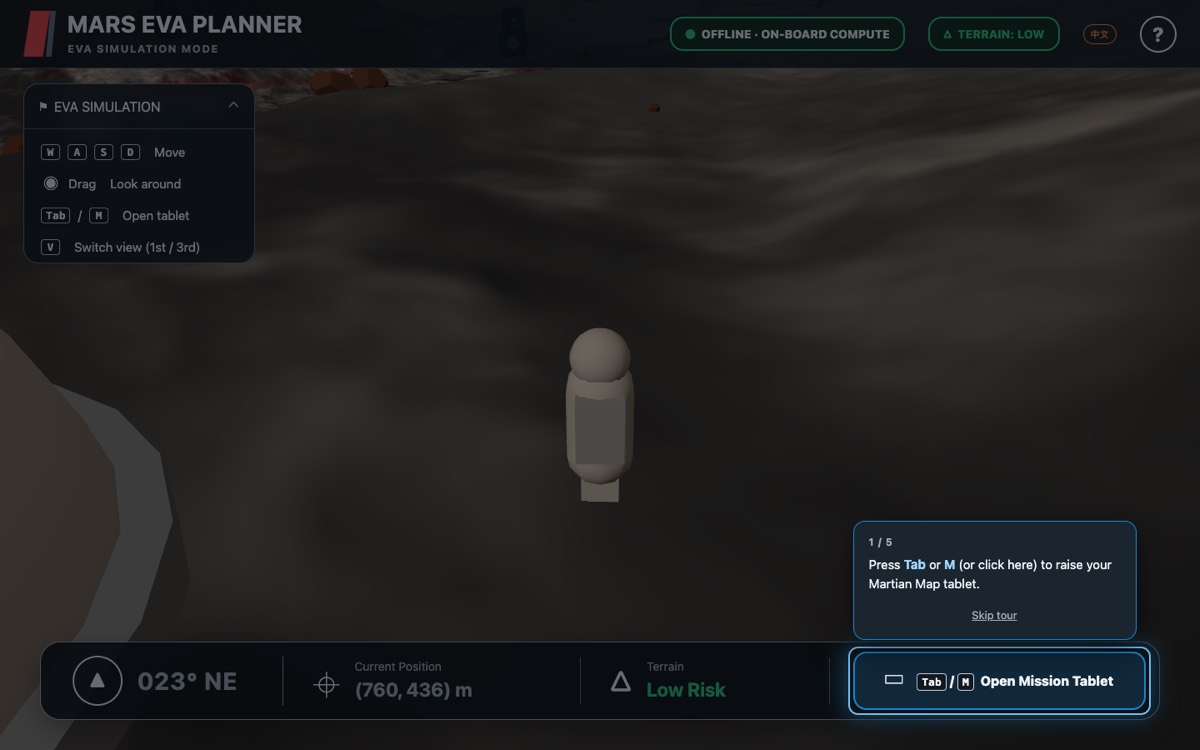
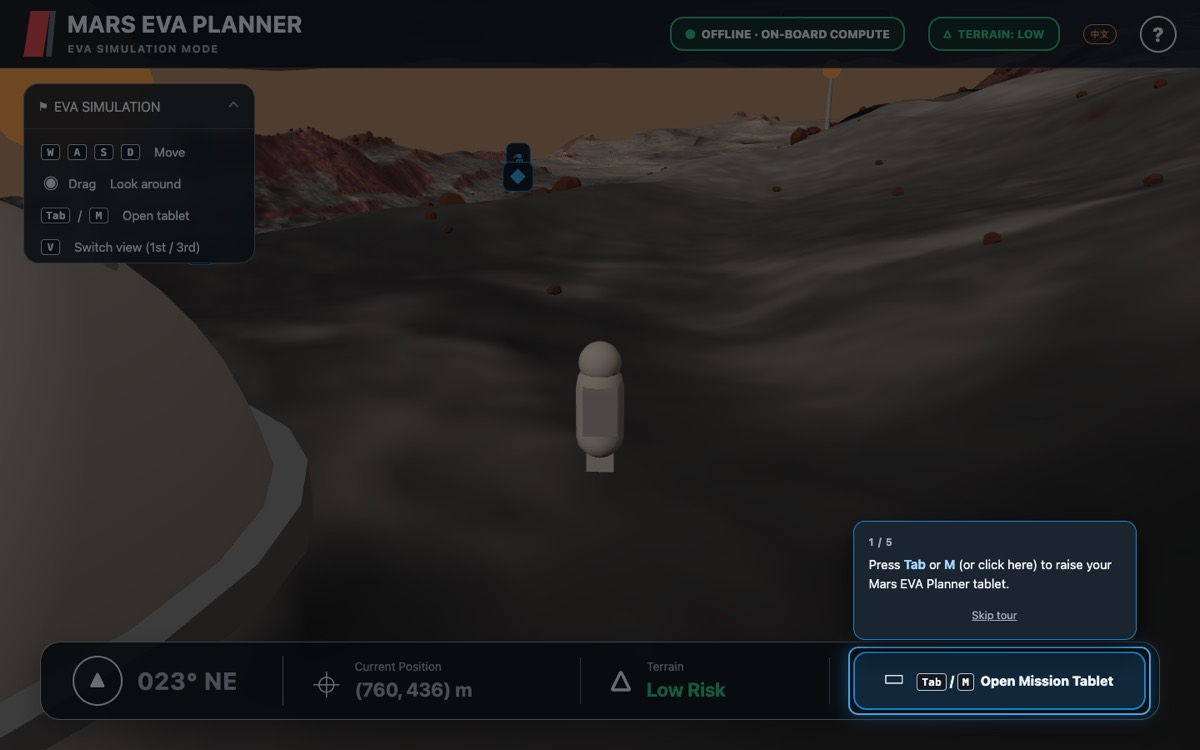
README: complete and accurate (data sources, second site, URL options, controls, requirements, structure, screenshots, credits)

diff --git a/README.md b/README.md
@@ -1,70 +1,161 @@
-<!-- SI-assisted: first drafted by Hermes Agent (SI tool), rewritten by Claude Code (Anthropic, SI tool) from the project's facts; reviewed by the team. -->
-# Mars EVA Planner — offline route planner for Mars walks
+<!-- SI-assisted: first drafted by Hermes Agent (SI tool), rewritten by Claude Code (Anthropic, SI tool) from the project's code and data; reviewed by the team. -->
+# Mars EVA Planner
 
-**Team It Worked on Earth!!!** (YI-FAN YU, PO-TING HSU) · NASA Space Apps Challenge 2026 · Challenge: *Interplanetary Survival Guide: Martian Map*
+An offline navigation tablet for astronauts walking on Mars. It plans safe routes on real NASA terrain, tracks the point of no return, and re-plans on the device when something goes wrong.
 
 **Live demo (runs in the browser, no install):** https://bobhsu408.github.io/martian-map/
 
-Mars EVA Planner is an offline navigation tablet for an astronaut walking on Mars. It turns NASA terrain data from Mount Sharp in Gale crater into safe walking routes. For each walk it shows three choices (safe, balanced, science) with distance, time, risk and an estimated radiation dose. During the walk it tracks the **point of no return**, the moment after which the oxygen left is not enough to get home. If a rockfall blocks the path or the suit starts leaking oxygen, it re-plans on the spot or orders a return to base. It finds the astronaut's position from radio beacons instead of GPS. A message to Earth takes 4 to 24 minutes, so every calculation runs on the device.
+NASA Space Apps Challenge 2026 · Challenge: *Interplanetary Survival Guide: Martian Map* · Team **It Worked on Earth!!!** (YI-FAN YU, PO-TING HSU)
 
-A first-time spotlight tour walks new users through raising the tablet, picking a destination and planning routes.
+![The tablet during an EVA: oxygen, turn-back countdown, position error and the route on the HiRISE map](docs/devlog/06_eva_tablet.jpg)
 
-## How to try it
+## Contents
 
-1. Open the demo and press **Start**. The tour guides you through it.
-2. Press **Tab** or **M** to raise the tablet, pick a science stop, and press **Calculate routes**.
-3. Press **▶ Start EVA**, then try the emergencies: **Rockfall**, **O₂ leak**, **Drift off route**, **Lose base link**.
-4. Walk yourself with **W A S D**, drag to look around, and press **V** to switch first or third person. The **Map Layers** button shows slope, hazards, cost, beacon coverage and the point of no return.
+- [Why](#why)
+- [Screenshots](#screenshots)
+- [How to use it](#how-to-use-it)
+- [Features](#features)
+- [How it works](#how-it-works)
+- [Run it locally](#run-it-locally)
+- [Project structure](#project-structure)
+- [Data](#data)
+- [Testing](#testing)
+- [Limitations](#limitations)
+- [Use of SI (AI) tools](#use-of-si-ai-tools)
+- [Team and credits](#team-and-credits)
+
+## Why
+
+On a Mars walk, the questions are local and urgent: is the next stretch of ground safe, and is there enough oxygen to get back? A message to Earth takes 4 to 24 minutes, and there is no GPS. Mars EVA Planner answers these questions on the astronaut's own device, using a HiRISE terrain model of Mount Sharp in Gale crater.
+
+## Screenshots
+
+| | |
+|---|---|
+| ![Spotlight tour, first step](docs/devlog/01_tour_raise.jpg) | ![Three routes ready](docs/devlog/03_tour_ready.jpg) |
+| First-time tour: raise the tablet | Three routes compared, ready to go |
+| ![Rockfall re-plan](docs/devlog/07_rockfall.jpg) | ![Oxygen leak, heading home](docs/devlog/08_o2_return.jpg) |
+| Rockfall: new route in under a second | Oxygen leak: the tablet sends you home |
+| ![Walking in 3D](docs/devlog/05_walk_3d.jpg) | ![Mars globe](docs/devlog/09_globe.jpg) |
+| Walking the route on HiRISE terrain | Zoom out to the whole planet |
+
+## How to use it
+
+1. Open the demo and press **Start**. A spotlight tour guides your first plan.
+2. Raise the tablet (**Tab** or **M**), pick a science stop or a custom point, and press **Calculate routes**.
+3. Choose Safe, Balanced or Science, then press **▶ Start EVA**. Walk it yourself or turn on **Autopilot**.
+4. Try the emergencies on the tablet: **Rockfall**, **O₂ leak**, **Drift off route**, **Lose base link**.
+
+| Control | Action |
+|---|---|
+| W A S D or arrow keys | Walk and turn |
+| Drag | Look around |
+| Tab or M | Raise or lower the tablet |
+| Esc | Lower the tablet |
+| V | First or third person |
+| B | Drop a UWB beacon (during an EVA, up to 4) |
+| Mouse wheel / double-click on the tablet map | Zoom / reset the map |
+| ? (top right) | Show the intro and replay the tour |
+
+URL options: `?nointro` skips the intro and tour, `?site=nw` loads the second HiRISE site, `?synthetic` uses a generated test terrain, `?server` uses the optional local Rust server, and `?viewer` uses the plain JavaScript DEM viewer without the WebAssembly engine.
 
 ## Features
 
-- Penalty-based cost map (slope, roughness, buffer around hazards, science bonus) and A* route planning in three modes
-- Point of no return from the remaining suit oxygen, shown as a countdown and as a red boundary on the map
-- On-board re-planning after a rockfall, a drift off the route, or an oxygen leak (return to base)
-- Positioning without GPS: LoRa/UWB beacon ranging, line of sight on the terrain, Gauss–Newton multilateration, dead reckoning; after losing the base link the astronaut can drop new beacons (key **B**)
-- Walkable 3D Mars scene with a handheld tablet, minimap, haptic and audio guidance
-- Nested map scales: 2 m HiRISE site → Gale crater region → whole Mars globe and 2D map
-- English / 中文 interface toggle
+- Three routes per walk (safe, balanced, science) with distance, time, risk, steepest slope, closest hazard and an estimated radiation dose
+- Point of no return from the remaining oxygen: a "turn back in" countdown on the tablet and a red boundary on the ground
+- On-board re-planning after a rockfall, a drift off the route or an oxygen leak (return to base)
+- Positioning without GPS: LoRa and UWB beacon ranging with line of sight over the terrain, multilateration, and dead reckoning; after losing the base link you can drop your own beacons
+- Walkable 3D scene with a handheld tablet, minimap, and vibration and sound cues for steering
+- Map layers: slope, hazards (no-go), penalty cost (safe and science), beacon coverage, point-of-no-return zone
+- Map scales from the 2 m walking site to the Gale crater region, a 2D map of Mars and a 3D globe
+- First-time spotlight tour, and an English / 中文 interface
 
-## Architecture
+## How it works
 
-- `engine/`: Rust workspace. `mars-core` holds the algorithms, `mars-wasm` builds them to WebAssembly, which runs in a Web Worker in the browser, and `mars-server` is an optional local HTTP server.
-- `web/`: Vite + Three.js front end. `src/main.js` is the app, `src/tour.js` the onboarding tour and `src/i18n.js` the language toggle.
-- `tools/*.py`: one-time Python scripts that turn raw NASA PDS files into `data/processed/`. The app does not need them to run.
-- `.github/workflows/pages.yml`: builds `web/` and deploys it to GitHub Pages on every push to `main`.
+- **Cost map.** Slope (Horn's method) and roughness come from the HiRISE model at 2.02 m. Ground steeper than 25° or rougher than 0.30 m is no-go. Other cells cost more the steeper and rougher they are and the closer they are to a no-go cell (exact Euclidean distance transform).
+- **Routes.** A* on an 8-connected grid, with three weightings. Walking speed follows a Tobler hiking function, slowed on rough ground.
+- **Point of no return.** A Dijkstra pass from the habitat gives the time home from every cell. A cell is reachable when the time there, plus the time home, plus a 30-minute reserve, fits in the oxygen left.
+- **Positioning.** Line of sight from each beacon over the terrain, weighted Gauss–Newton multilateration with three or more ranges, dead reckoning otherwise. Ranges are simulated in the demo.
+- **Radiation.** Walking time × 0.7 mSv/day, the level Curiosity's RAD measured on the surface.
+- **Offline.** The Rust engine is compiled to WebAssembly and runs in a Web Worker, so the site works with the network unplugged.
 
-## Run locally
+The full write-up is in [engDocs/SUBMISSION.md](engDocs/SUBMISSION.md), and the engine API is in [docs/API.md](docs/API.md).
+
+## Run it locally
+
+**Requirements**
+- Node.js 20.19+ or 22.12+ (for Vite 8)
+- Only to rebuild the engine: Rust 1.85+ (edition 2024), `rustup target add wasm32-unknown-unknown`, `cargo install wasm-bindgen-cli --version 0.2.130`
+- Only to regenerate the map data: Python 3 with `pip install -r tools/requirements.txt` (NumPy, Pillow)
+
+**Run the app.** The built WebAssembly engine and the processed terrain data are already in the repository.
 
 ```
-cd web && npm install && npm run build && npx vite preview
+cd web
+npm install
+npm run dev        # development server, http://localhost:5173
+npm run build      # production build into web/dist
+npx vite preview   # serve the build, http://localhost:4173
 ```
 
-Open the printed `http://localhost:4173` URL. The engine runs inside the browser, so the app works offline once it has loaded.
+**Rebuild the engine** after changing Rust code: `./tools/build_wasm.sh` (writes to `web/src/wasm/`).
 
-Rebuild the WebAssembly engine after changing Rust code: `./tools/build_wasm.sh`. This needs the `wasm32-unknown-unknown` target and `wasm-bindgen-cli 0.2.130`.
+**Optional local server:** `cd engine && cargo run --release -p mars-server`, then open `http://127.0.0.1:8080/?server`.
 
-## Test
+**Deploy.** Every push to `main` builds `web/` and publishes it to GitHub Pages ([.github/workflows/pages.yml](.github/workflows/pages.yml)).
+
+## Project structure
 
 ```
-cd engine && cargo test                                          # 45 Rust tests
-node tools/e2e_tablet.mjs <out-dir> "http://localhost:4173/?nointro"   # plan → EVA → rockfall
-node tools/e2e_tour.mjs <out-dir> http://localhost:4173/              # onboarding tour
-node tools/e2e_shots.mjs <out-dir> "http://localhost:4173/?nointro"    # full walkthrough with screenshots
+engine/                Rust workspace
+  crates/core/         algorithms: terrain, cost map, A*, EVA model, planner, positioning
+  crates/wasm/         WebAssembly build of the engine (runs in a Web Worker)
+  crates/server/       optional local HTTP server (axum)
+web/                   front end (Vite + Three.js)
+  src/main.js          the app: 3D scene, tablet, EVA simulation
+  src/tour.js          first-time spotlight tour
+  src/i18n.js          English / Chinese toggle
+  src/api.js           engine back ends (WebAssembly, server, viewer)
+  public/data/         terrain and map data served with the app
+data/processed/        preprocessed NASA data (DEM, orthophoto, global and regional maps)
+tools/                 Python preprocessing, WebAssembly build script, browser tests
+docs/                  API, data catalog, AI usage log (Chinese), dev log, Chinese README
+engDocs/               submission text and SI usage log (English)
 ```
 
-## NASA data
+## Data
+
+All data is NASA data, bundled with the app so it works offline.
 
 | Data | Used for |
 |---|---|
-| **HiRISE DTM** `DTEEC_001488_1750_001752_1750_U02` and orthophoto (NASA/JPL/University of Arizona) | 3D walking terrain at about 2 m, slope, roughness, no-go areas, route planning, ground imagery |
-| **MGS MOLA** MEGDR (global, and the Gale region at 463 m) | Mars globe, Gale crater context, far terrain |
-| **Viking MDIM** colour mosaic (NASA/ASU) | Global satellite base map |
-| **MGS MOC Atlas** (256 px/deg) | Regional image of Gale crater |
-| Curiosity **RAD** surface dose rate (published value) | Radiation dose estimate per route |
+| [HiRISE DTM DTEEC_001488_1750_001752_1750_U02](https://www.uahirise.org/dtm/dtm.php?ID=PSP_001488_1750) and orthophoto | Main walking site (Mount Sharp foothills), resampled to 2.02 m |
+| [HiRISE DTM DTEEC_019698_1750_019988_1750_U01](https://www.uahirise.org/dtm/dtm.php?ID=ESP_019698_1750) | Second site, lower NW Mount Sharp (`?site=nw`) |
+| [MGS MOLA MEGDR](https://pds-geosciences.wustl.edu/missions/mgs/megdr.html) | Mars globe |
+| [MGS MOLA 463 m global DEM (USGS Astrogeology mosaic)](https://astrogeology.usgs.gov/search/map/mars_mgs_mola_dem_463m) | Gale crater region and far terrain |
+| [Viking MDIM colour mosaic](https://www.mars.asu.edu/data/mdim_color/) | Global base map |
+| [MGS MOC Wide Angle Atlas](https://www.mars.asu.edu/data/moc_256/) | Gale crater regional image |
+| Curiosity RAD surface dose rate ([Hassler et al. 2014](https://doi.org/10.1126/science.1244797)) | Radiation dose estimate |
 
-Details: [docs/DATA_CATALOG.md](docs/DATA_CATALOG.md).
+To regenerate the processed data from the raw NASA files, see [docs/README.zh.md](docs/README.zh.md) (Chinese) and [docs/HIRISE_PREPROCESS_PLAN.md](docs/HIRISE_PREPROCESS_PLAN.md). Dataset details are in [docs/DATA_CATALOG.md](docs/DATA_CATALOG.md).
 
-**Honest limitations:** beacon ranges are simulated, science stops are candidates picked automatically from the terrain, and the radiation dose is an estimate from an average dose rate.
+## Testing
+
+```
+cd engine && cargo test                                                # 45 Rust tests
+node tools/e2e_tablet.mjs <out-dir> "http://localhost:4173/?nointro"   # plan, EVA, rockfall
+node tools/e2e_tour.mjs <out-dir> http://localhost:4173/               # spotlight tour (add "zh" for Chinese)
+node tools/e2e_shots.mjs <out-dir> "http://localhost:4173/?nointro"    # full walkthrough with screenshots
+```
+
+The browser tests drive headless Google Chrome (macOS path in the scripts) and save screenshots to `<out-dir>`.
+
+## Limitations
+
+- The walkable area is a 2 km × 2 km crop of the HiRISE model.
+- Science stops are candidates picked from the terrain, not confirmed boxwork outcrops.
+- Beacon ranges are simulated.
+- The radiation dose is an average-rate estimate, not a radiation map.
 
 ## Use of SI (AI) tools
 
@@ -74,15 +165,16 @@ Details: [docs/DATA_CATALOG.md](docs/DATA_CATALOG.md).
 - **Hermes Agent** drafted the first README.
 - **ChatGPT, Google Translate and Grammarly** helped translate and polish our English text.
 - The team chose the problem, the site and the offline-tablet concept, designed the experience, chose and preprocessed the NASA data, wrote `hazard_mask` by hand, and tested and approved every change.
-- Every file written or assisted by SI says so on its first line (`SI-generated` or `SI-assisted`). We used no SI-generated images, video or audio.
-- Full step-by-step log: [engDocs/SI_usage.md](engDocs/SI_usage.md) (English) and [docs/AI_USAGE.md](docs/AI_USAGE.md) (Chinese).
+- Every file written or assisted by SI says so on its first line (`SI-generated` or `SI-assisted`). We used no SI-generated images, video or audio. The screenshots are from the app itself.
+- Step-by-step log: [engDocs/SI_usage.md](engDocs/SI_usage.md) (English) and [docs/AI_USAGE.md](docs/AI_USAGE.md) (Chinese).
 
-## Team
+## Team and credits
 
 **It Worked on Earth!!!**: YI-FAN YU, PO-TING HSU
 
-## More
+- HiRISE data: NASA/JPL/University of Arizona
+- MOLA data: NASA/GSFC, MGS MOLA Science Team; 463 m mosaic by USGS Astrogeology
+- Viking and MOC mosaics: NASA, served by Arizona State University
+- Open-source libraries: Three.js, Vite, Rust, wasm-bindgen, axum, Tokio, Rayon, Serde, pathfinding, proptest, NumPy, Pillow
 
-- Submission text: [engDocs/SUBMISSION.md](engDocs/SUBMISSION.md)
-- Development log with screenshots (Chinese): [docs/DEVLOG.md](docs/DEVLOG.md)
-- Chinese README with data preprocessing details: [docs/README.zh.md](docs/README.zh.md)
+More: [development log with screenshots](docs/DEVLOG.md) (Chinese).

diff --git a/docs/AI_USAGE.md b/docs/AI_USAGE.md
@@ -63,4 +63,5 @@ NASA Space Apps 規定提交時必須完整揭露 AI（官方稱 Super Intellige
 
 | 2026-11-15 22:00 | Claude Code (Claude Opus 5.5) | 對照大會提交 checklist 檢查：README 改為英文版（中文版移到 docs/README.zh.md 並修正連結），修正英文 README 的 HiRISE 地點編號與 Team、補齊 SI 工具；SUBMISSION.md SI 段落補上 Antigravity、ChatGPT、Google Translate、Grammarly | 組員補齊 SI 紀錄後，隊長要求確認提交前還缺哪些資料 |
 | 2026-11-15 22:35 | Claude Code (Claude Opus 5.5) | 專案名稱全面改為 Mars EVA Planner（挑戰題目名稱保留）；對照程式碼修正 SUBMISSION.md 與現況不符處（平板放下時看不到回頭倒數、Gale 區域資料來源、測試與功能清單），改寫成較平實的團隊口吻並加入「測試中設計如何改變」段落；依比賽表單實際欄位重產 SUBMISSION_FORM.txt | 隊長要求改名、確認內容符合現況並降低 AI 感；提供表單頁面原始碼 |
+| 2026-11-15 22:45 | Claude Code (Claude Opus 5.5) | 依程式碼與資料重寫 README：修正 Gale 區域資料來源，補上第二地點、網址參數、操作鍵表、環境需求（Node／Rust 版本）、專案結構、截圖、資料連結與致謝、測試說明；以改名後的版本重拍導覽截圖 | 隊長指出 README 與現況有差異、內容不足 |
 <!-- 之後每一步都往下新增一列 -->
